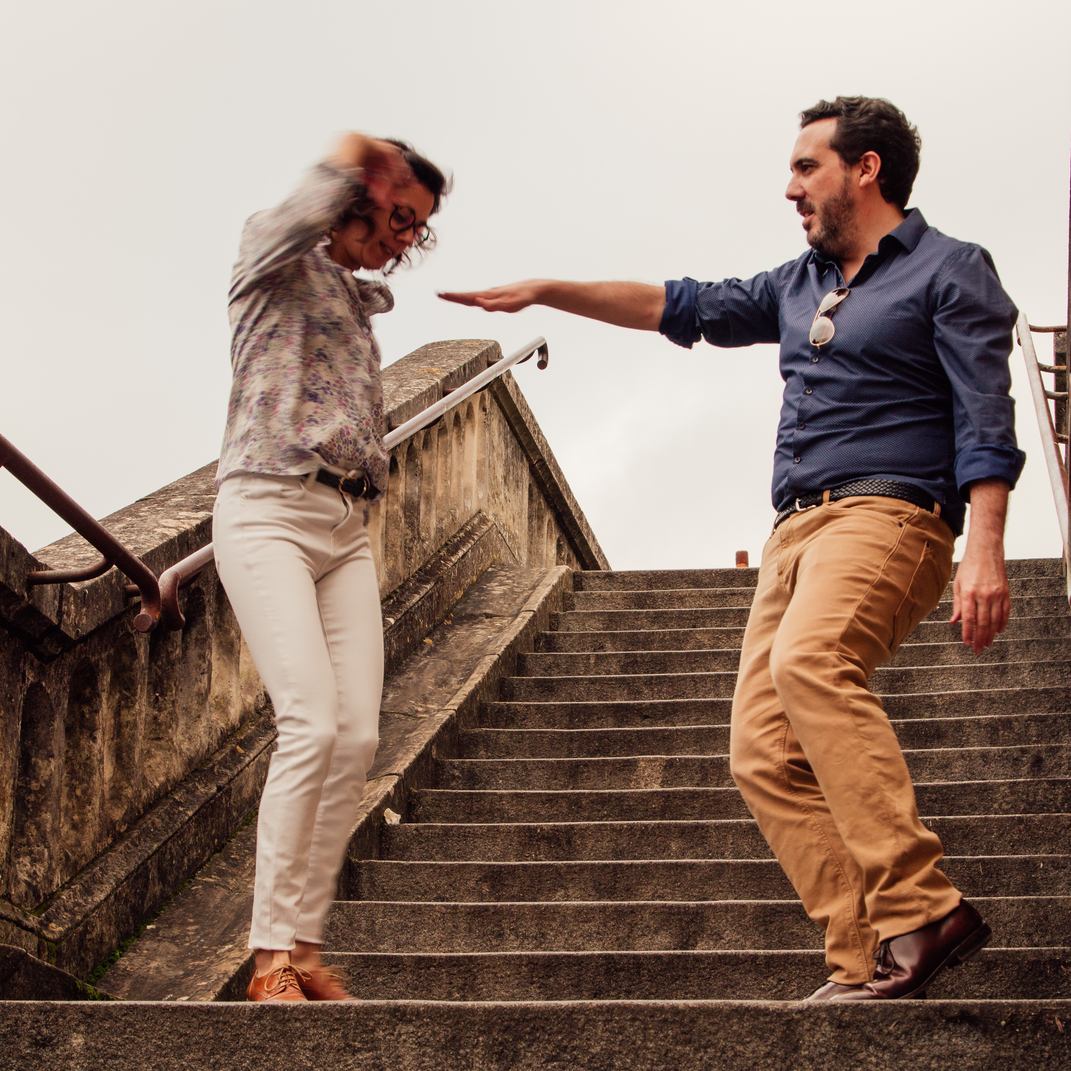
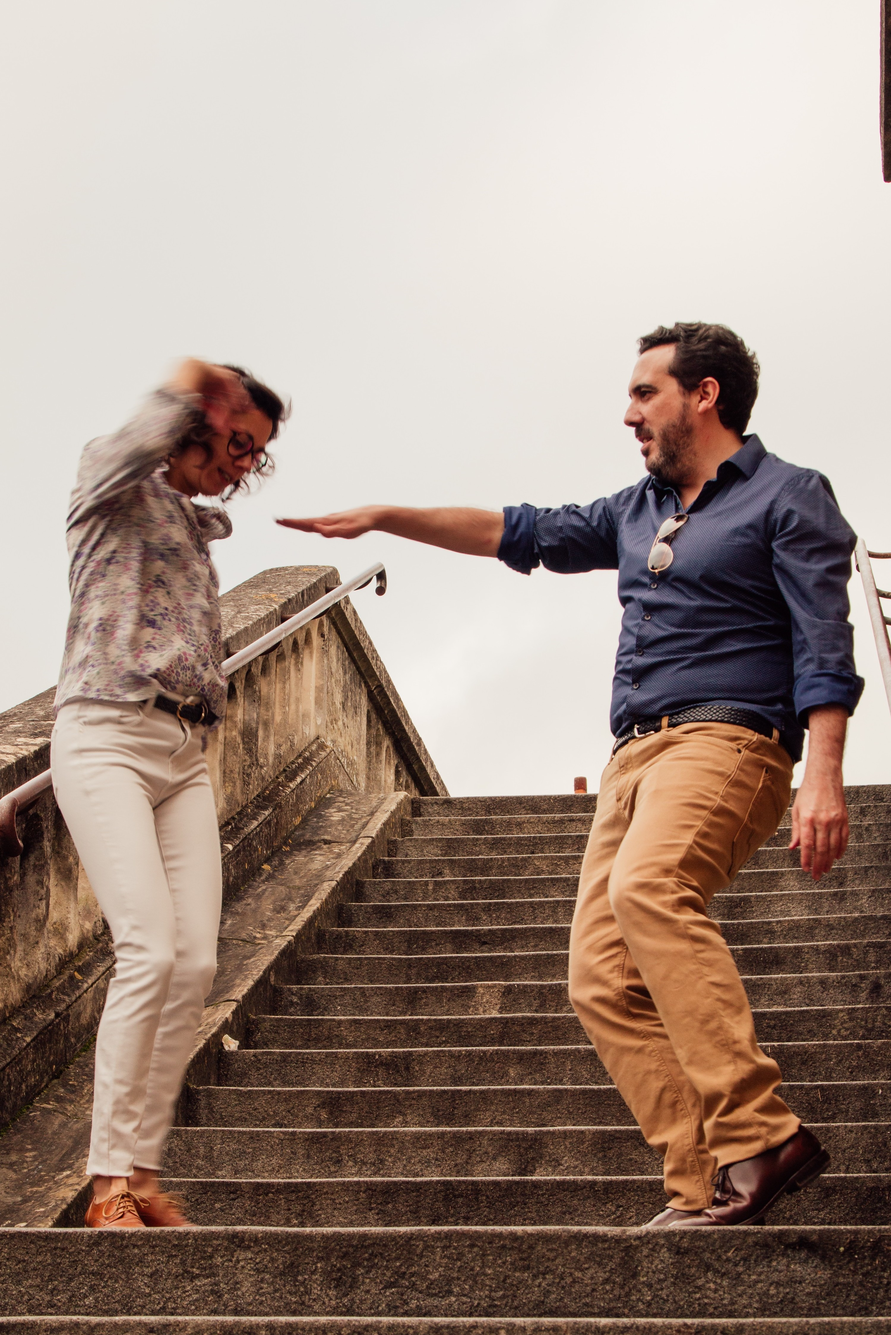
ajout image + optimisation image

diff --git a/src/pages/Programme.jsx b/src/pages/Programme.jsx
@@ -1,29 +1,27 @@
-import CityHallImg from '../images/site_mariage/town-hall.png'
-import ChurchImg from '../images/site_mariage/church-full.png'
-import CocktailImg from '../images/site_mariage/wine.png'
-import DinnerImg from '../images/site_mariage/dinner.png'
-import DanceImg from '../images/site_mariage/dancing_1.png'
 import HMDancing from '../images/mariage/h&m_escaliers.jpg'
-import HMDancing1 from '../images/mariage/h&m_dancing.jpg'
+import { FontAwesomeIcon } from '@fortawesome/react-fontawesome'
+import HMPulp from '../images/mariage/twist_blue.jpeg'
+
 
 
 function Program() {
 
+
     return (
-        <div>
-            
-           <div className="prog">
-                <ul className="prog__list">
-                    <li className="prog__text"><img className="prog__picto" src={CityHallImg} alt="" /> - 15h00 : Mairie</li>
-                    <li className="prog__text"><img className="prog__picto" src={ChurchImg} alt="" /> - 15h45 : Église</li>
-                    <li className="prog__text"><img className="prog__picto" src={CocktailImg} alt="" /> - 17h00 : Cocktail</li>
-                    <li className="prog__text"><img className="prog__picto" src={DinnerImg} alt="" /> - 20h00 : Dîner</li>
-                    <li className="prog__text"><img className="prog__picto" src={DanceImg} alt="" /> - 23h30 : Let's Dance</li>
+        <div className='progMain'>
+            <div className="progLeft">
+                <ul className="progLeft__list">
+                    <li className="progLeft__text"><FontAwesomeIcon icon="landmark-flag" className="progLeft__picto" /> - 15h00 : Mairie</li>
+                    <li className="progLeft__text"><FontAwesomeIcon icon="church" className="progLeft__picto"  /> - 15h45 : Église</li>
+                    <li className="progLeft__text"><FontAwesomeIcon icon="champagne-glasses" className="progLeft__picto" /> - 17h00 : Cocktail</li>
+                    <li className="progLeft__text"><FontAwesomeIcon icon="bell-concierge" className="progLeft__picto" />  - 20h00 : Dîner</li>
+                    {/* <li className="progDance"> 23h30 : Let's Dance</li> */}
                 </ul>
-            <div className='prog__imgBox'>
-                <img className='prog__img' src={HMDancing} alt="Helene et matthieu en train de danser" />
-            </div>     
-        </div>
+            </div>
+            <div className='progRight'>
+                <p className="progRight__text"> 23h30 : Let's Dance</p>
+                <img className='progRight__img' src={HMDancing} alt="Helene et matthieu en train de danser" />
+            </div>
         </div>
     )
 }

diff --git a/src/sass/pages/_programme.scss b/src/sass/pages/_programme.scss
@@ -1,8 +1,19 @@
-.prog {
+
+.progMain {
     display: flex;
+    flex-direction: row;
+    width: 90%;
+    margin: auto;
+}
+
+
+.progLeft {
+    display: flex;
+    flex-direction: column;
+    width: 50%;
+    margin-top: 150px;
     height: 100vh;
-    // flex-direction: row-reverse;
-    justify-content: space-evenly;
+    justify-content: flex-start;
     text-align: center;
     font-family: $font-text;
     color: $color-font-dark;
@@ -17,33 +28,77 @@
         padding: 20px;
         word-spacing: 20px;
         letter-spacing: 5px;
+        font-size: 20px;
     }
 
     &__picto {
-       
-        height: 40px;
+        height: 30px;
         vertical-align: middle;
     }
 
-    &__imgBox {
-        display: flex;
-        width: 40%;
-        justify-content: center;
-        margin: 20px;
-        padding: 20px;
-    }
-
-    &__img {
-        width: auto;    
-        height: 50%;
-        border-radius: 60% 40%;
-       
-        
-       
-    }
 }
+
+
+.progRight {
+    display: flex;
+    flex-direction: column;
+    width: 50%;
+    margin-top: 50px;
+    justify-content: flex-start;
+    align-items: center;
+    
+&__text {
+    position: absolute;
+    font-size: 25px;
+    display: flex;
+    justify-content: center;
+    margin: auto;
+    padding: 20px;
+    word-spacing: 20px;
+    letter-spacing: 5px;
+    font-family: $font-text;
+    color: $color-font-dark;
+   
+}
+
+
+&__img {
+    
+    display: flex;
+    align-items: center;
+    width: 70%;
+    margin: 0 auto 0 auto;
+    border-radius: 5px;
+    
+}
+}
+
+
+
 
 @media screen and (max-width: 768px) {
 
+    .progMain {
+        flex-direction: column;
+        
+    }
 
+    .progLeft {
+        width: 100%;
+        height: auto;
+
+        &__text{
+            font-size: 15px;
+        }
+    }
+
+
+    .progRight {
+        width: 100%;
+
+        &__text{
+            position: relative;
+            font-size: 20px;
+        }
+    }
 }

diff --git a/src/Root.jsx b/src/Root.jsx
@@ -10,10 +10,13 @@ import Hotels from './pages/Hotels'
 import Photos from './pages/Photos'
 import Confirmation from './pages/Confirmation'
 import Header from './components/Header';
-import { library } from "@fortawesome/fontawesome-svg-core";
-import { faLocationDot, faCalendar } from "@fortawesome/free-solid-svg-icons";
+import { library } from '@fortawesome/fontawesome-svg-core'
+import { fab } from '@fortawesome/free-brands-svg-icons'
+import { fas } from '@fortawesome/free-solid-svg-icons'
+import { far } from '@fortawesome/free-regular-svg-icons'
 
-library.add(faLocationDot, faCalendar);
+
+library.add(far, fab, fas);
 
 
 function Routing() {

diff --git a/public/index.html b/public/index.html
@@ -11,7 +11,7 @@
     />
     <link rel="preconnect" href="https://fonts.googleapis.com">
 <link rel="preconnect" href="https://fonts.gstatic.com" crossorigin>
-<link href="https://fonts.googleapis.com/css2?family=Alice&family=Sacramento&family=Spinnaker&display=swap" rel="stylesheet">
+<link href="https://fonts.googleapis.com/css2?family=Sacramento&family=Spinnaker&display=swap" rel="stylesheet">
     <link rel="apple-touch-icon" href="%PUBLIC_URL%/logo192.png" />
   
     <!--

diff --git a/src/components/Banner.jsx b/src/components/Banner.jsx
@@ -1,4 +1,4 @@
-import Img_banner from "../images/mariage/h&m_passerelle.jpg";
+import Img_banner from "../images/mariage/h&m_passerelle-min.jpg";
 import '../sass/main.scss';
 
 import { FontAwesomeIcon } from '@fortawesome/react-fontawesome'
